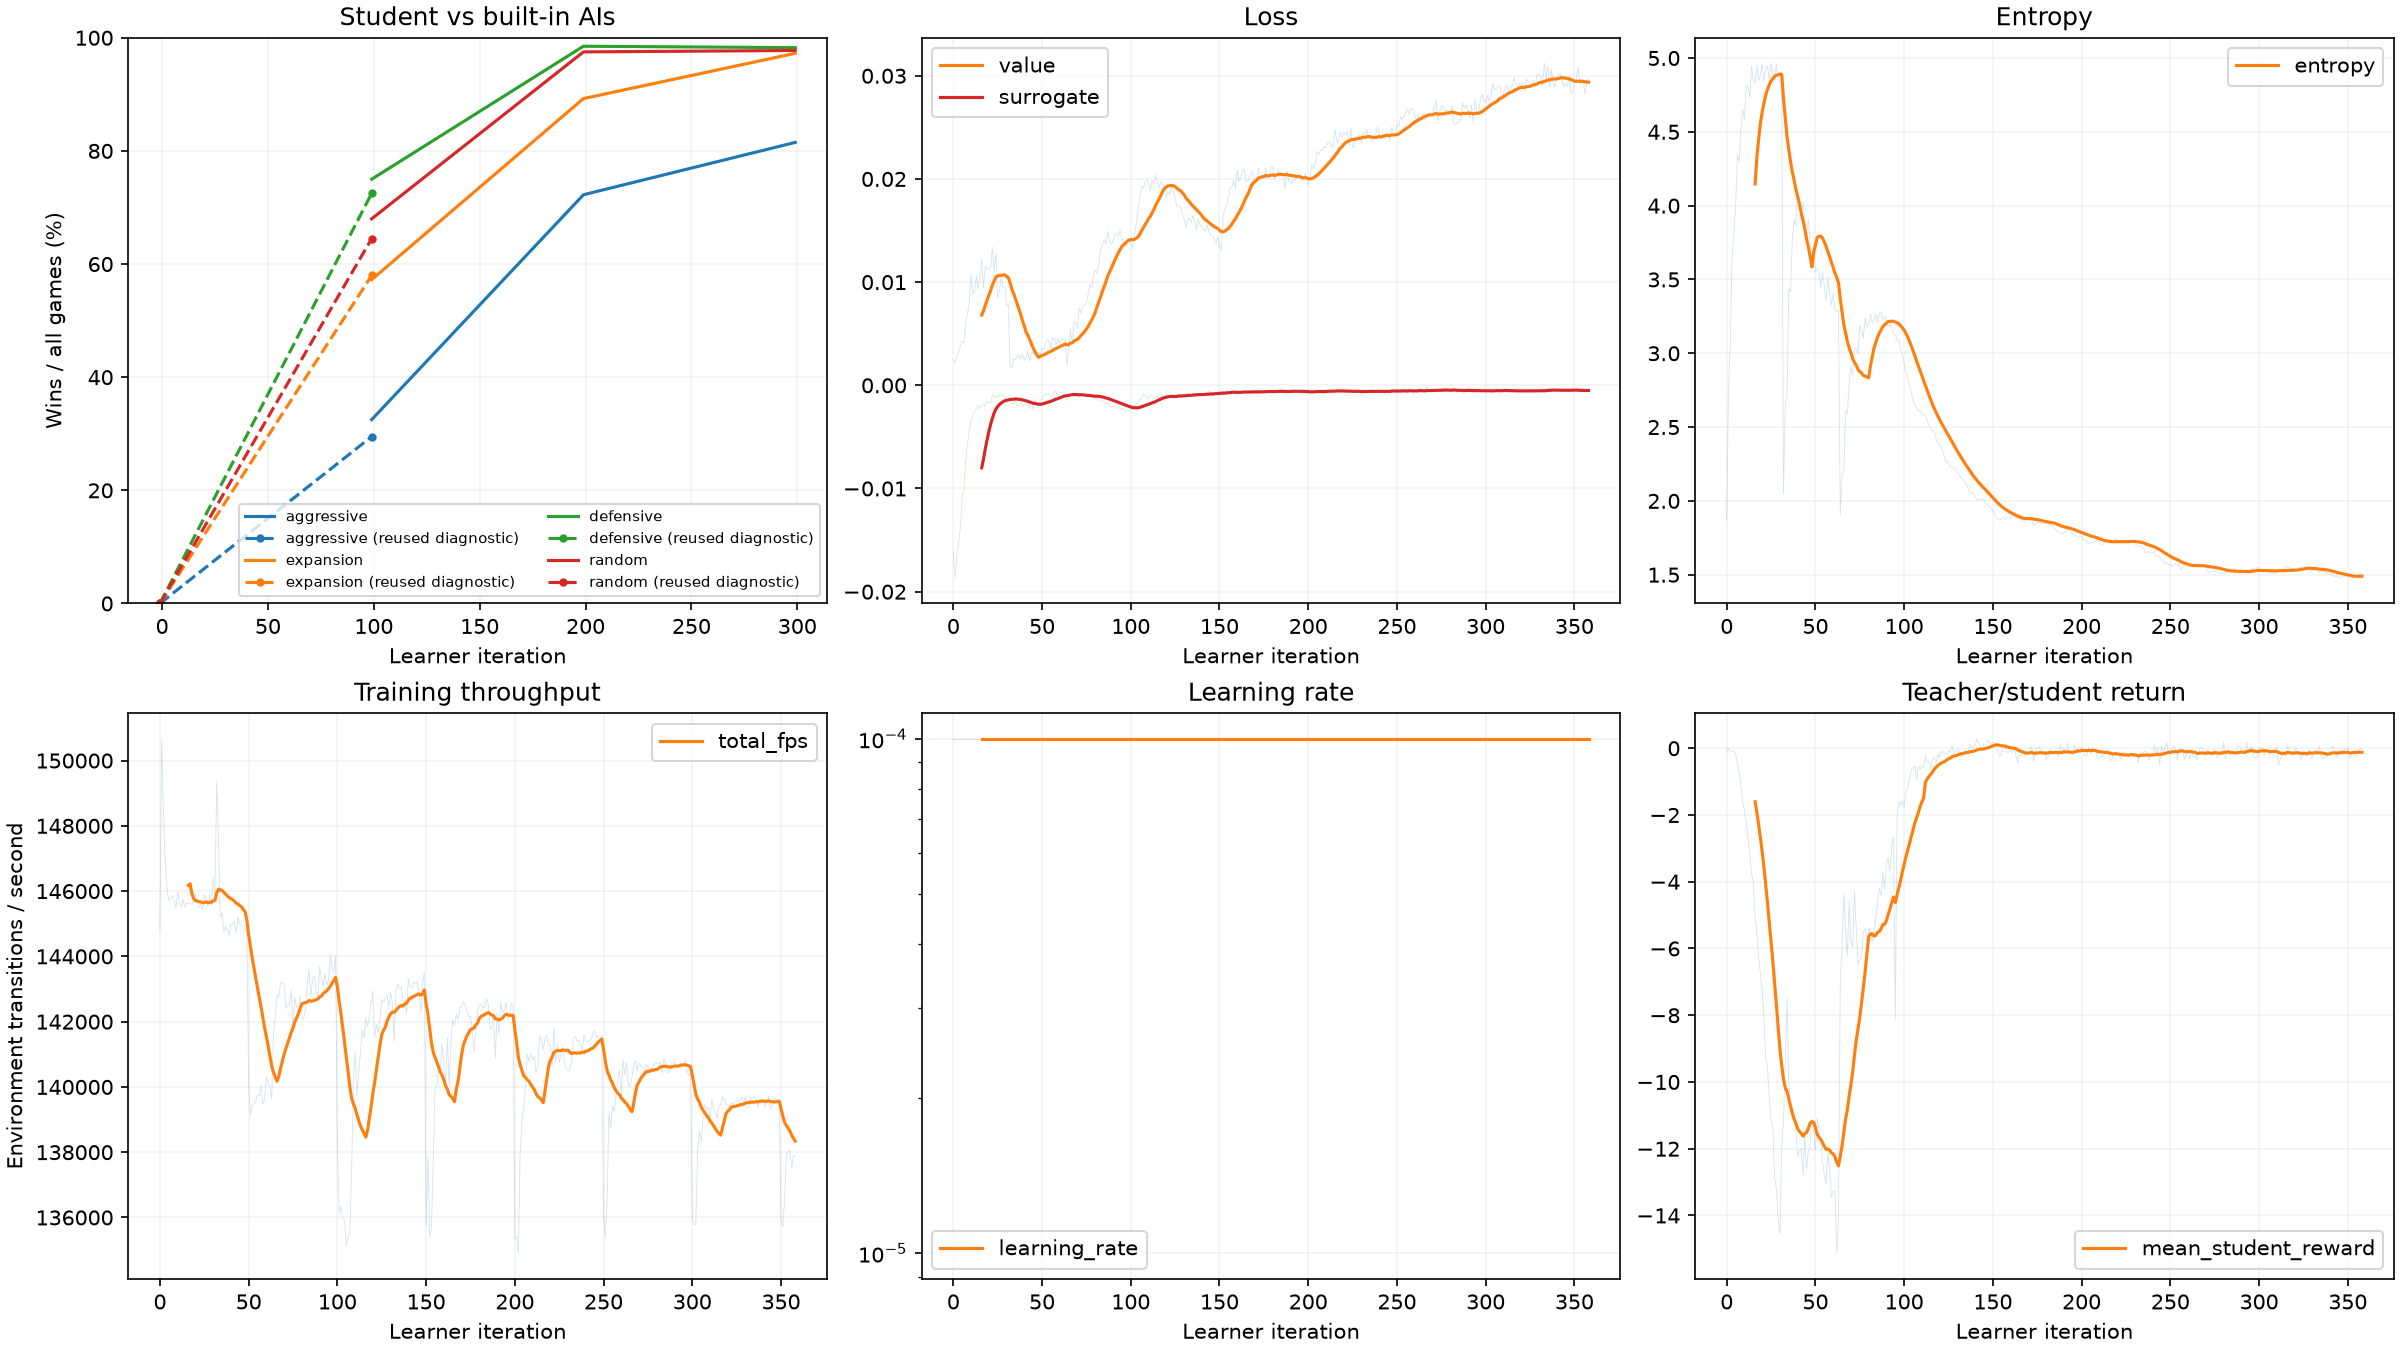
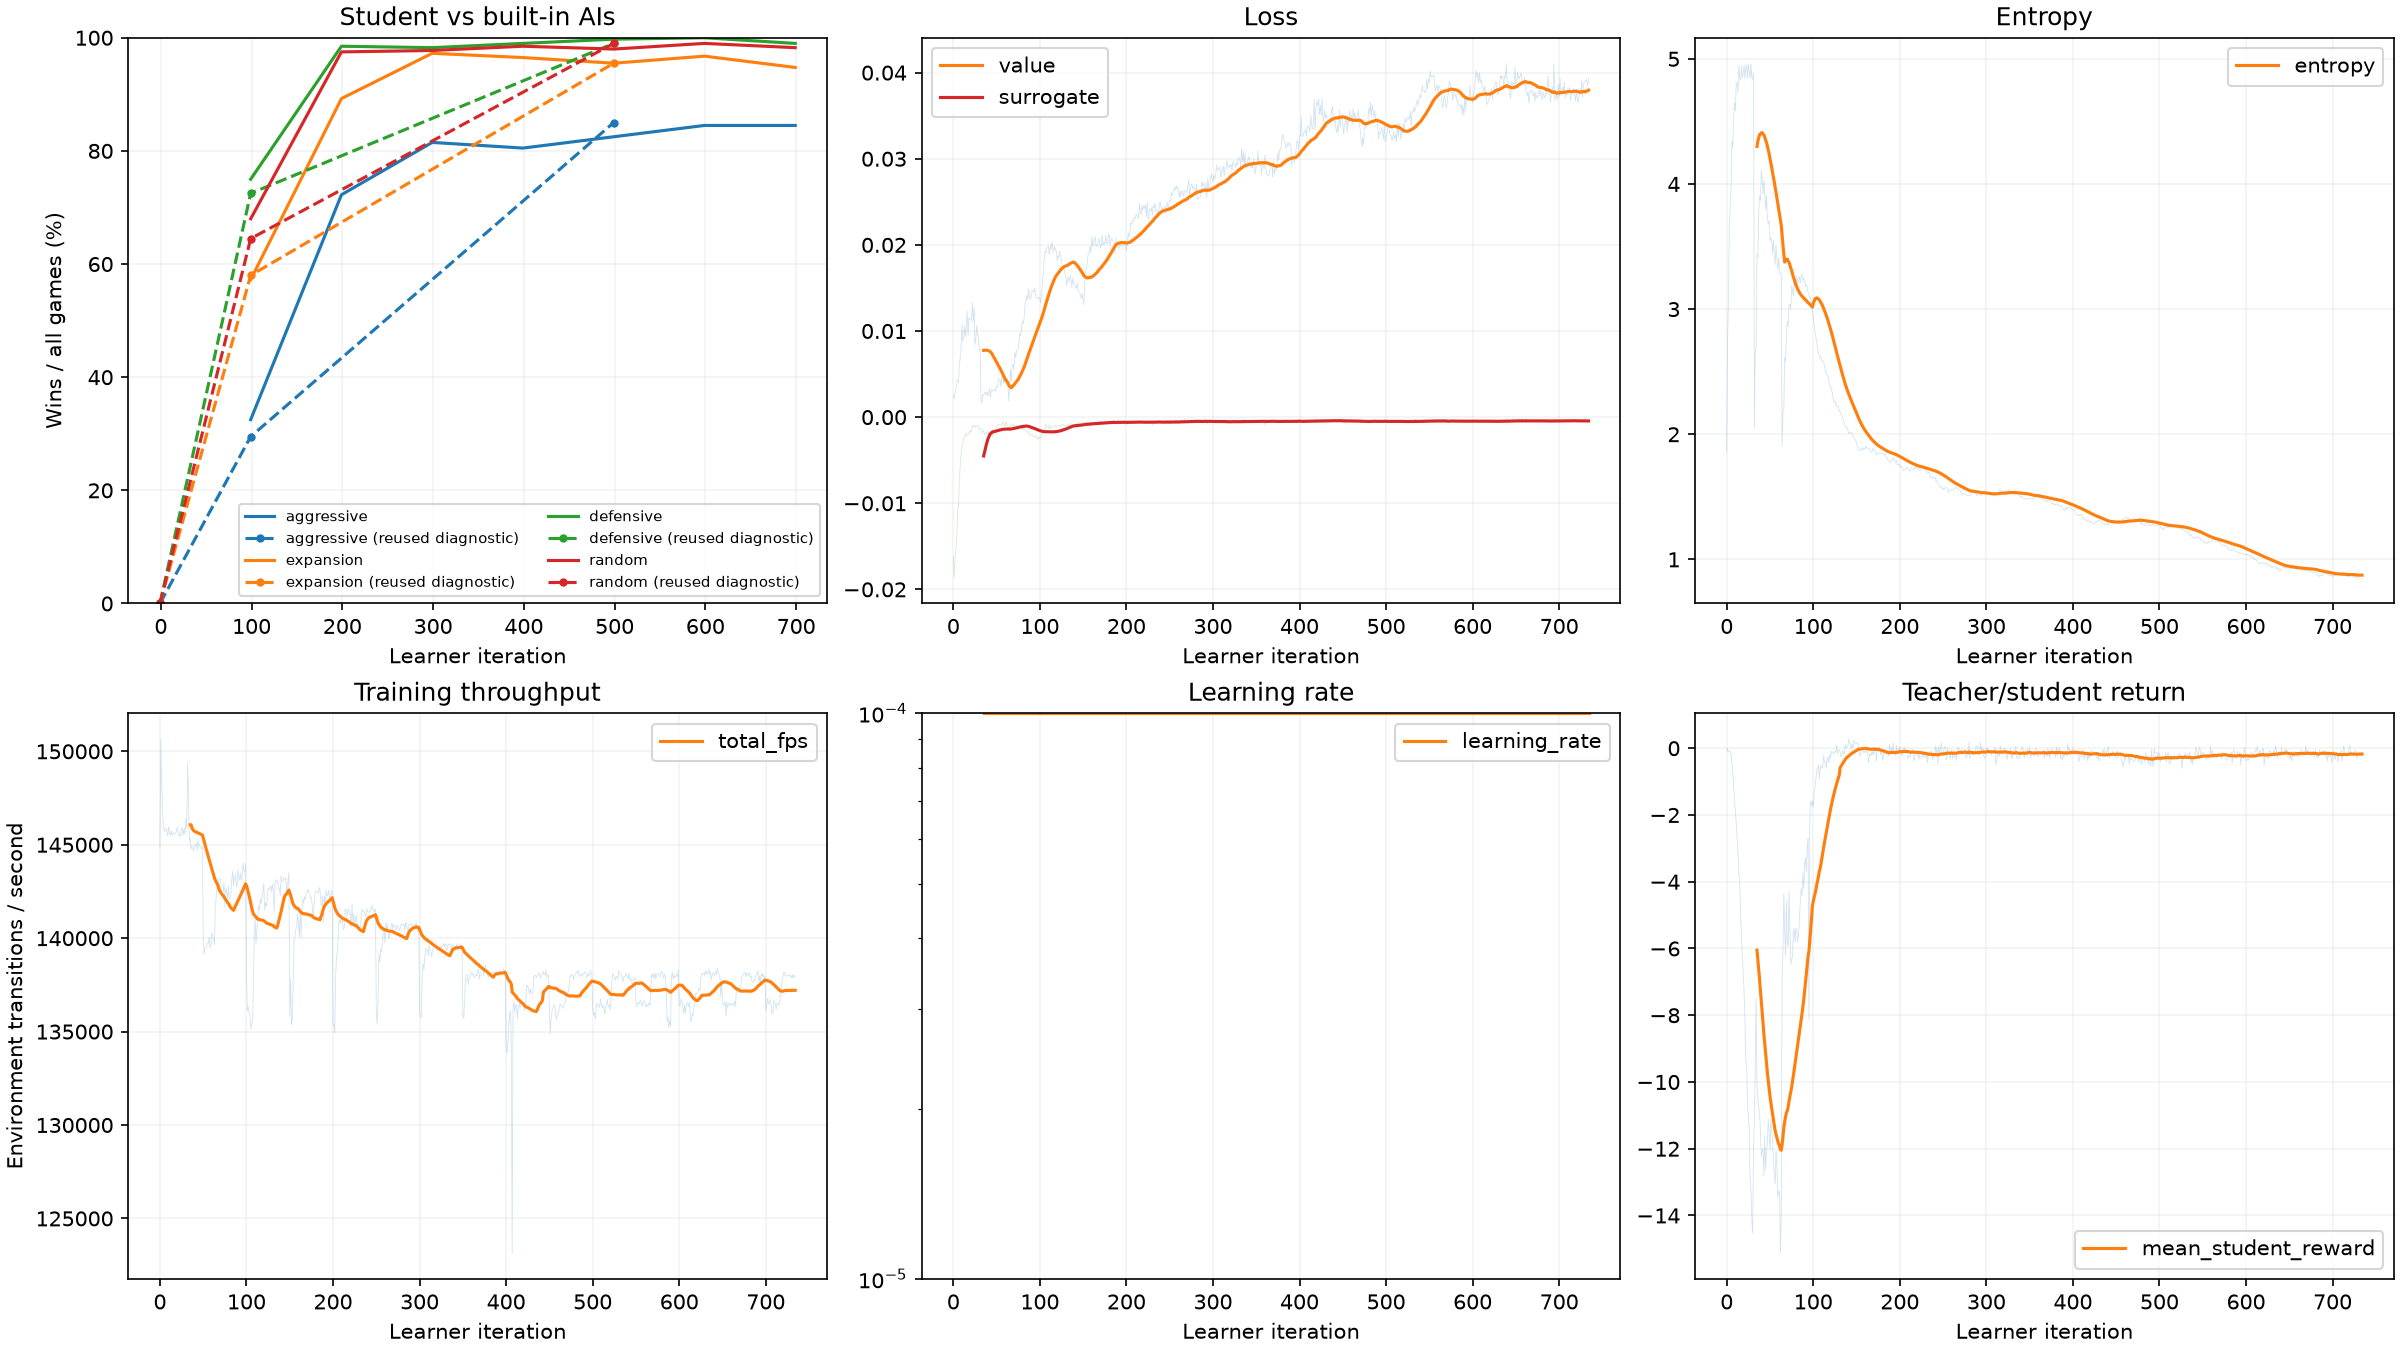
docs(rl): record v17 middle evaluation and eight verified games

diff --git a/doc/rl_train_log.md b/doc/rl_train_log.md
@@ -831,12 +831,24 @@ v16最终交付追加核对 `outputs/rl_iteration_audit/pure_scratch_phase/v16_f
 
[1 lines of base64/hex data omitted]
 
-目前完整selector三点如下，299为当前最佳，训练仍在运行：
+目前完整selector评测如下，599为当前最佳，训练仍在运行：
 
 | 更新 | aggressive | expansion | defensive | random |
 | ---: | ---: | ---: | ---: | ---: |
 | 99 | 32.5% | 57.25% | 75% | 68% |
 | 199 | 72.25% | 89.25% | 98.5% | 97.5% |
 | 299 | 81.5% | 97.25% | 98.25% | 97.75% |
+| 399 | 80.5% | 96.5% | 99% | 98.5% |
+| 499 | 82.5% | 95.5% | 99.75% | 98% |
+| 599 | 84.5% | 96.75% | 100% | 99% |
+| 699 | 84.5% | 94.75% | 99% | 98.25% |
 
-![v17早期：三个实际选模点及新初始/99开发诊断，训练仍在运行](rl_train_figures/v17.png)
+![v17中期：实际选模点及新初始/99/499开发诊断，训练仍在运行](rl_train_figures/v17.png)
+
+早期只读配对 `outputs/rl_iteration_audit/pure_scratch_phase/v17_early_selector_comparison.json`：v17/v11六份报告各1600局，前三点有序game/AI/map/controller/seat全部相同。v17总体反向率66.26→9.89→10.50%，早期大幅缓解，但199→299并非持续下降；WAIT0.96→2.59→2.46%，draw78→4→0。299相对v11四率差+2/+1.25/−0.75/+0.25pp，不据此结算最终版本。实际200–299各100次更新，v17采样1.194829/更新2.539565秒、mean FPS140,408，v11为1.151601/2.447642秒、145,680/s，约慢3.62%；两者E4/N/T一致，但行为/RNG/历史对手/CPU评测重叠不同，不宣称因果。
+
[1 lines of base64/hex data omitted]
+
[1 lines of base64/hex data omitted]
+
+败局仍有守将和移动问题。Agg终局前50兵27地落后80兵38地，231敌邻65格18兵可见仍远处36→37移1，敌17兵夺将军；Exp无回将，220邻20格敌5兵可见仍36→27移1，敌4兵攻下2守兵。Def547全局仅16 WAIT、111次紧邻反向、89次回将，150/200tick仍仅6地；507–509将军39→48→39→48往返，509增长到43派42留1，510邻38敌43派42夺将，P1回军计划因P0先夺将而跳过。Random95将军78由2增长到3仍HALF派1留2，邻79敌4派3攻下，不能误写派兵后守1（敌夺将后才剩1）。四例原生invalid/zero-MOVE0。敌将见3/34/241/8tick，世界可见性不是实际actor历史/网络概率证明，也不由几局作因果归因。
